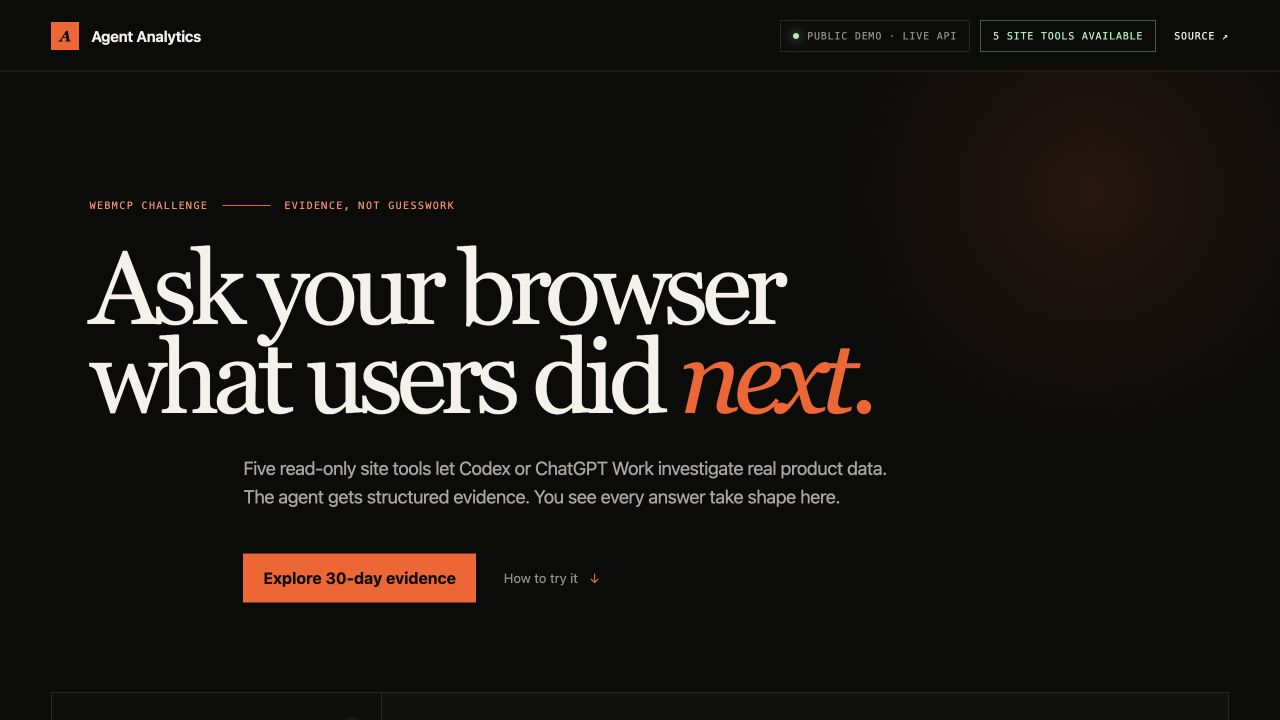
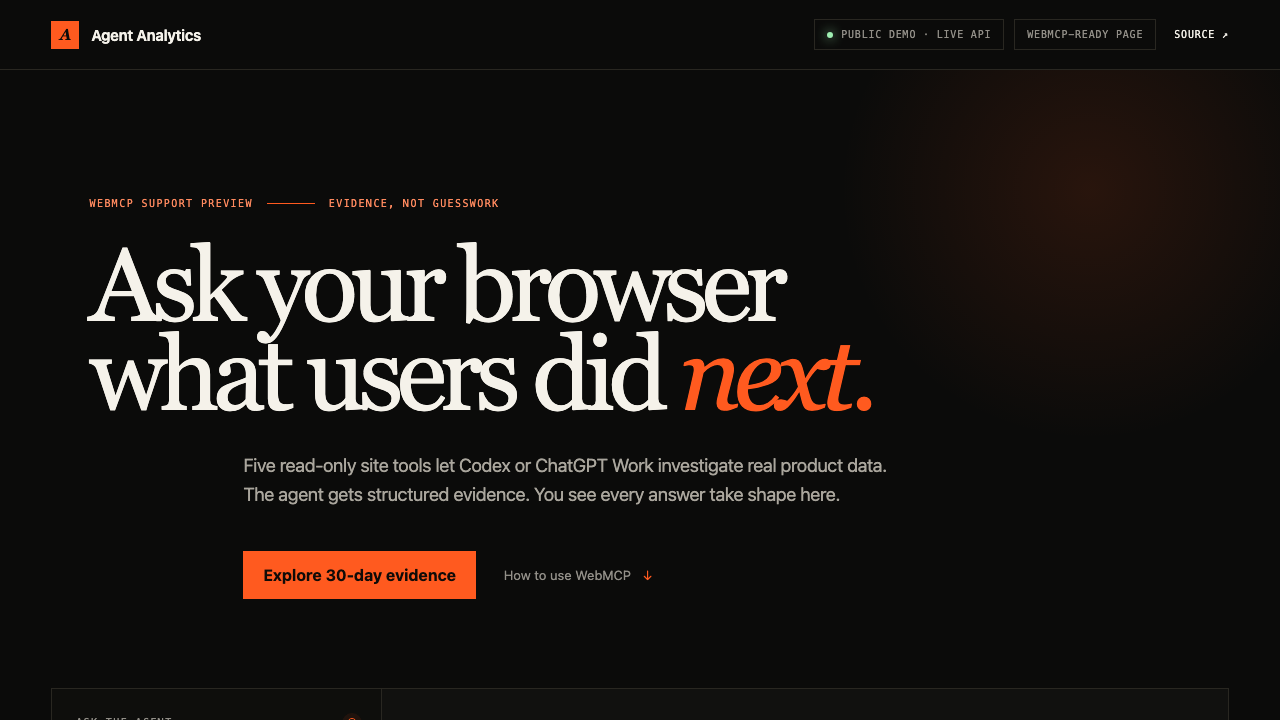
Reframe demo as WebMCP support preview

diff --git a/public/index.html b/public/index.html
@@ -28,12 +28,12 @@
 
     <main>
       <section class="hero">
-        <div class="eyebrow"><span>WebMCP Challenge</span><span class="rule"></span><span>Evidence, not guesswork</span></div>
+        <div class="eyebrow"><span>WebMCP support preview</span><span class="rule"></span><span>Evidence, not guesswork</span></div>
         <h1>Ask your browser<br>what users did <em>next.</em></h1>
         <p class="lede">Five read-only site tools let Codex or ChatGPT Work investigate real product data. The agent gets structured evidence. You see every answer take shape here.</p>
         <div class="hero-actions">
           <button class="primary" data-demo="overview">Explore 30-day evidence</button>
-          <a class="secondary" href="#try-it">How to try it <span>↓</span></a>
+          <a class="secondary" href="#try-it">How to use WebMCP <span>↓</span></a>
         </div>
       </section>
 
@@ -107,8 +107,8 @@
     </main>
 
     <footer>
-      <span>Built by Agent Analytics for the OpenAI WebMCP Challenge.</span>
-      <a href="https://agentanalytics.sh">agentanalytics.sh ↗</a>
+      <span>A public, read-only WebMCP preview from Agent Analytics.</span>
+      <span><a href="https://docs.agentanalytics.sh/guides/webmcp/">Read the guide ↗</a> · <a href="https://agentanalytics.sh">agentanalytics.sh ↗</a></span>
     </footer>
   </body>
 </html>

diff --git a/README.md b/README.md
@@ -1,8 +1,10 @@
 # Agent Analytics WebMCP Evidence Explorer
 
-An open-source WebMCP demo for the [OpenAI WebMCP Challenge](https://openai.com/webmcp-challenge/). It turns a live product-analytics page into an agent-native evidence surface: Codex or ChatGPT Work can call five read-only tools, receive structured analytics, and update the same visual canvas the person is watching.
+An open-source WebMCP support preview for Agent Analytics. It turns a live product-analytics page into an agent-native evidence surface: Codex or ChatGPT Work can call five read-only tools, receive structured analytics, and update the same visual canvas the person is watching.
 
 **Live demo:** [agent-analytics-webmcp.dannyshmueli.workers.dev](https://agent-analytics-webmcp.dannyshmueli.workers.dev/)
+
+**How to use it:** [Agent Analytics WebMCP guide](https://docs.agentanalytics.sh/guides/webmcp/)
 
 ## Why this exists
 
@@ -36,7 +38,7 @@ npm run dev
 
 Open the local URL and use the manual controls. WebMCP tools are feature-detected, so the page remains fully usable in ordinary browsers.
 
-To test native site tools, open the URL in the ChatGPT or Codex built-in browser with WebMCP enabled and ask: **“Find the biggest signup leak and show me the evidence.”**
+To test native site tools, open the URL in the ChatGPT or Codex built-in browser with WebMCP enabled and ask: **“Find the biggest signup leak and show me the evidence.”** The agent can call the page's structured tools; the same result appears in the visible evidence canvas.
 
 ## Deploy
 
